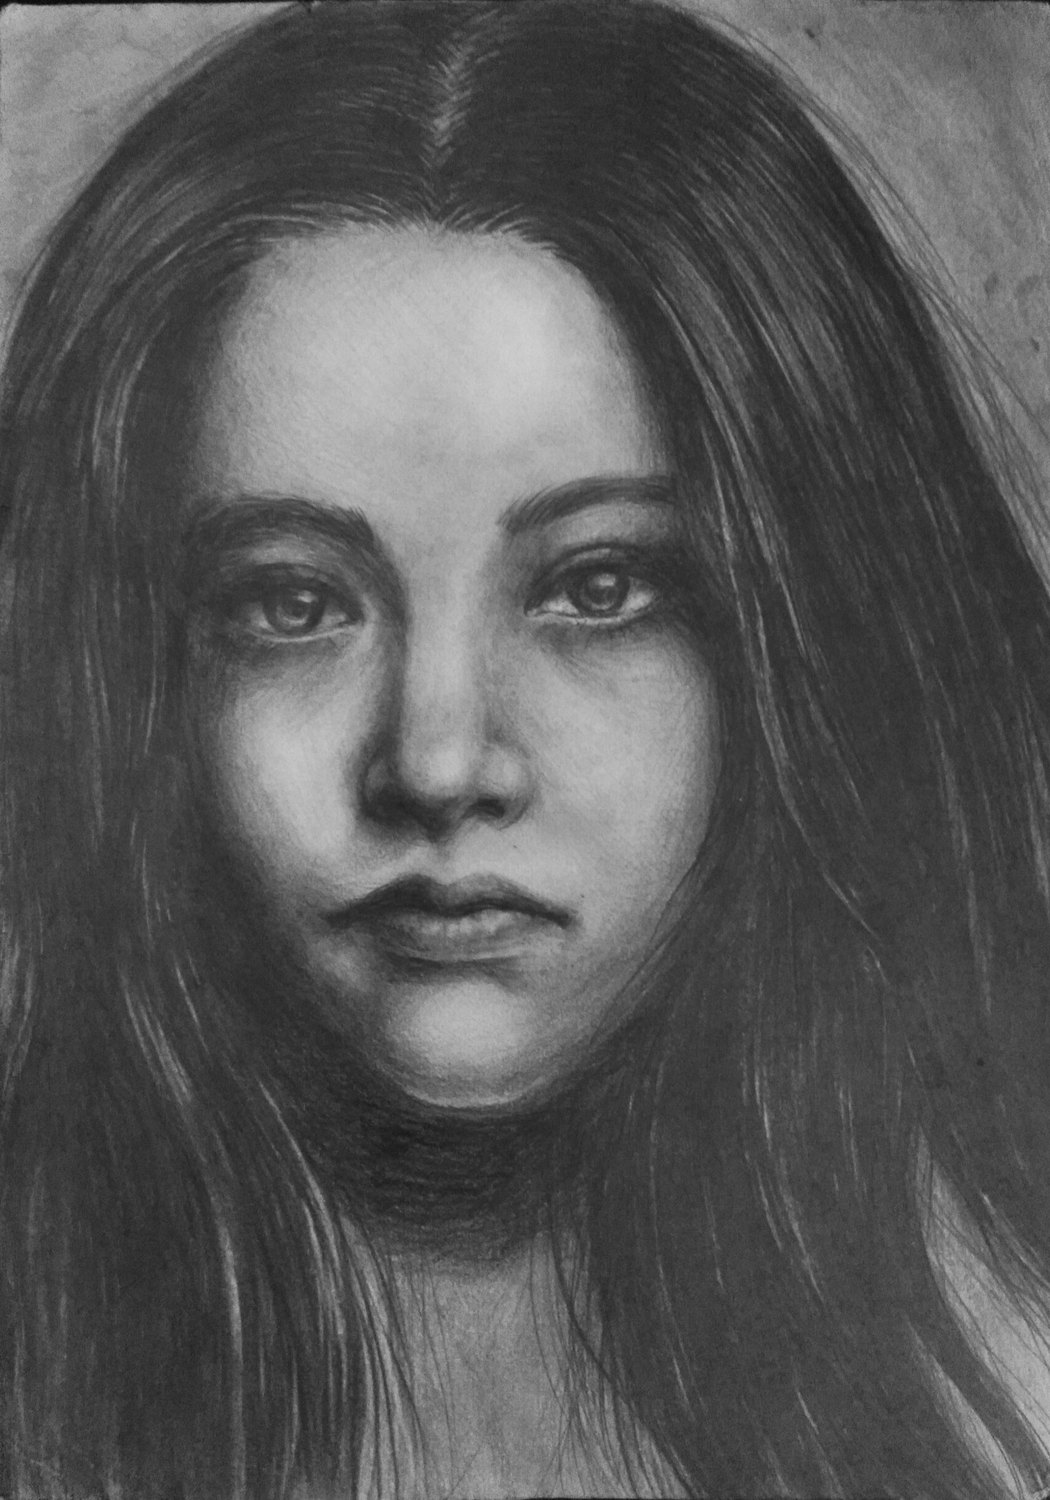
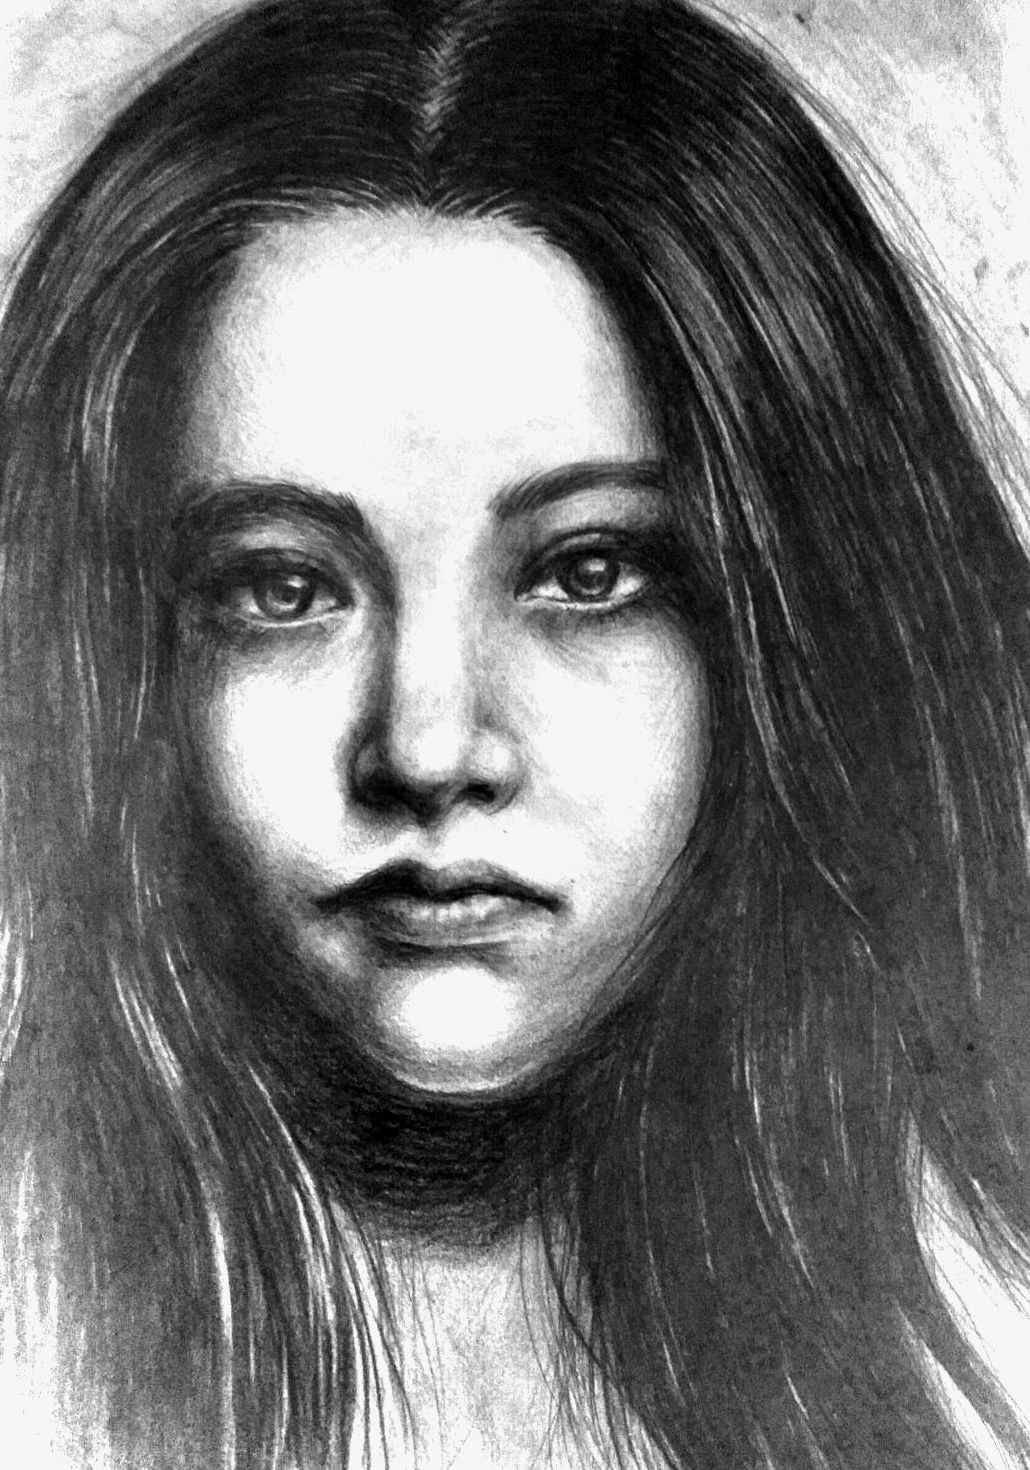
Flatten lighting and white balance on photographed hand-drawn works so they read like scans
Claude-Session: https://claude.ai/code/session_01GPGckZEsofTcxj1jt2CKdh

diff --git a/src/data/works.ts b/src/data/works.ts
@@ -288,10 +288,10 @@ export const works: Work[] = [
     summary: '高中時期的色鉛筆習作：瓢蟲、鳳蝶與紫色繡球花，以及只留眼睛與嘴唇的面部局部。',
     tags: ['Colored Pencil', 'Realism', 'Study'],
     images: [
-      { src: '/works/hd-ladybug.jpg', alt: '色鉛筆繪製的瓢蟲，停在綠色松針上', w: 1500, h: 959 },
-      { src: '/works/hd-butterfly.jpg', alt: '色鉛筆繪製的鳳蝶，停在紫色小花上', w: 1500, h: 956 },
-      { src: '/works/hd-hydrangea.jpg', alt: '色鉛筆繪製的紫色繡球花', w: 929, h: 1500 },
-      { src: '/works/hd-eyelip.jpg', alt: '色鉛筆繪製的一隻藍色眼睛與紅色嘴唇', w: 1087, h: 1500 },
+      { src: '/works/hd-ladybug.jpg', alt: '色鉛筆繪製的瓢蟲，停在綠色松針上', w: 1470, h: 941 },
+      { src: '/works/hd-butterfly.jpg', alt: '色鉛筆繪製的鳳蝶，停在紫色小花上', w: 1470, h: 938 },
+      { src: '/works/hd-hydrangea.jpg', alt: '色鉛筆繪製的紫色繡球花', w: 911, h: 1470 },
+      { src: '/works/hd-eyelip.jpg', alt: '色鉛筆繪製的一隻藍色眼睛與紅色嘴唇', w: 1067, h: 1470 },
     ],
   },
   {
@@ -301,8 +301,8 @@ export const works: Work[] = [
     summary: '高中時期的鉛筆素描靜物：瓶罐與玻璃、腳踏車，以及楊桃與小果實。',
     tags: ['Pencil', 'Still Life', 'Study'],
     images: [
-      { src: '/works/hd-still-life.jpg', alt: '鉛筆素描靜物：軟管、噴霧瓶、水瓶、玻璃珠與網狀布', w: 796, h: 1095 },
-      { src: '/works/hd-bike.jpg', alt: '鉛筆素描的腳踏車', w: 1444, h: 1012 },
+      { src: '/works/hd-still-life.jpg', alt: '鉛筆素描靜物：軟管、噴霧瓶、水瓶、玻璃珠與網狀布', w: 782, h: 1075 },
+      { src: '/works/hd-bike.jpg', alt: '鉛筆素描的腳踏車', w: 1416, h: 937 },
       { src: '/works/hd-starfruit.jpg', alt: '鉛筆素描的楊桃與一顆小果實', w: 1083, h: 1500 },
     ],
   },
@@ -313,10 +313,10 @@ export const works: Work[] = [
     summary: '高中時期的鉛筆素描人像與動物：捲髮女孩、長髮女孩、留鬍子的老先生，以及套著繩籠頭的牛。',
     tags: ['Pencil', 'Portrait', 'Study'],
     images: [
-      { src: '/works/hd-girl-curly.jpg', alt: '鉛筆素描：穿著拼色上衣的捲髮女孩', w: 1165, h: 1500 },
-      { src: '/works/hd-girl-long.jpg', alt: '鉛筆素描：長髮女孩的正面肖像', w: 1050, h: 1500 },
-      { src: '/works/hd-old-man.jpg', alt: '鉛筆素描：留鬍子的老先生', w: 1125, h: 1500 },
-      { src: '/works/hd-cow.jpg', alt: '鉛筆素描：套著繩籠頭的牛', w: 1125, h: 1500 },
+      { src: '/works/hd-girl-curly.jpg', alt: '鉛筆素描：穿著拼色上衣的捲髮女孩', w: 1143, h: 1470 },
+      { src: '/works/hd-girl-long.jpg', alt: '鉛筆素描：長髮女孩的正面肖像', w: 1030, h: 1470 },
+      { src: '/works/hd-old-man.jpg', alt: '鉛筆素描：留鬍子的老先生', w: 1103, h: 1470 },
+      { src: '/works/hd-cow.jpg', alt: '鉛筆素描：套著繩籠頭的牛', w: 1103, h: 1470 },
     ],
   },
   {
